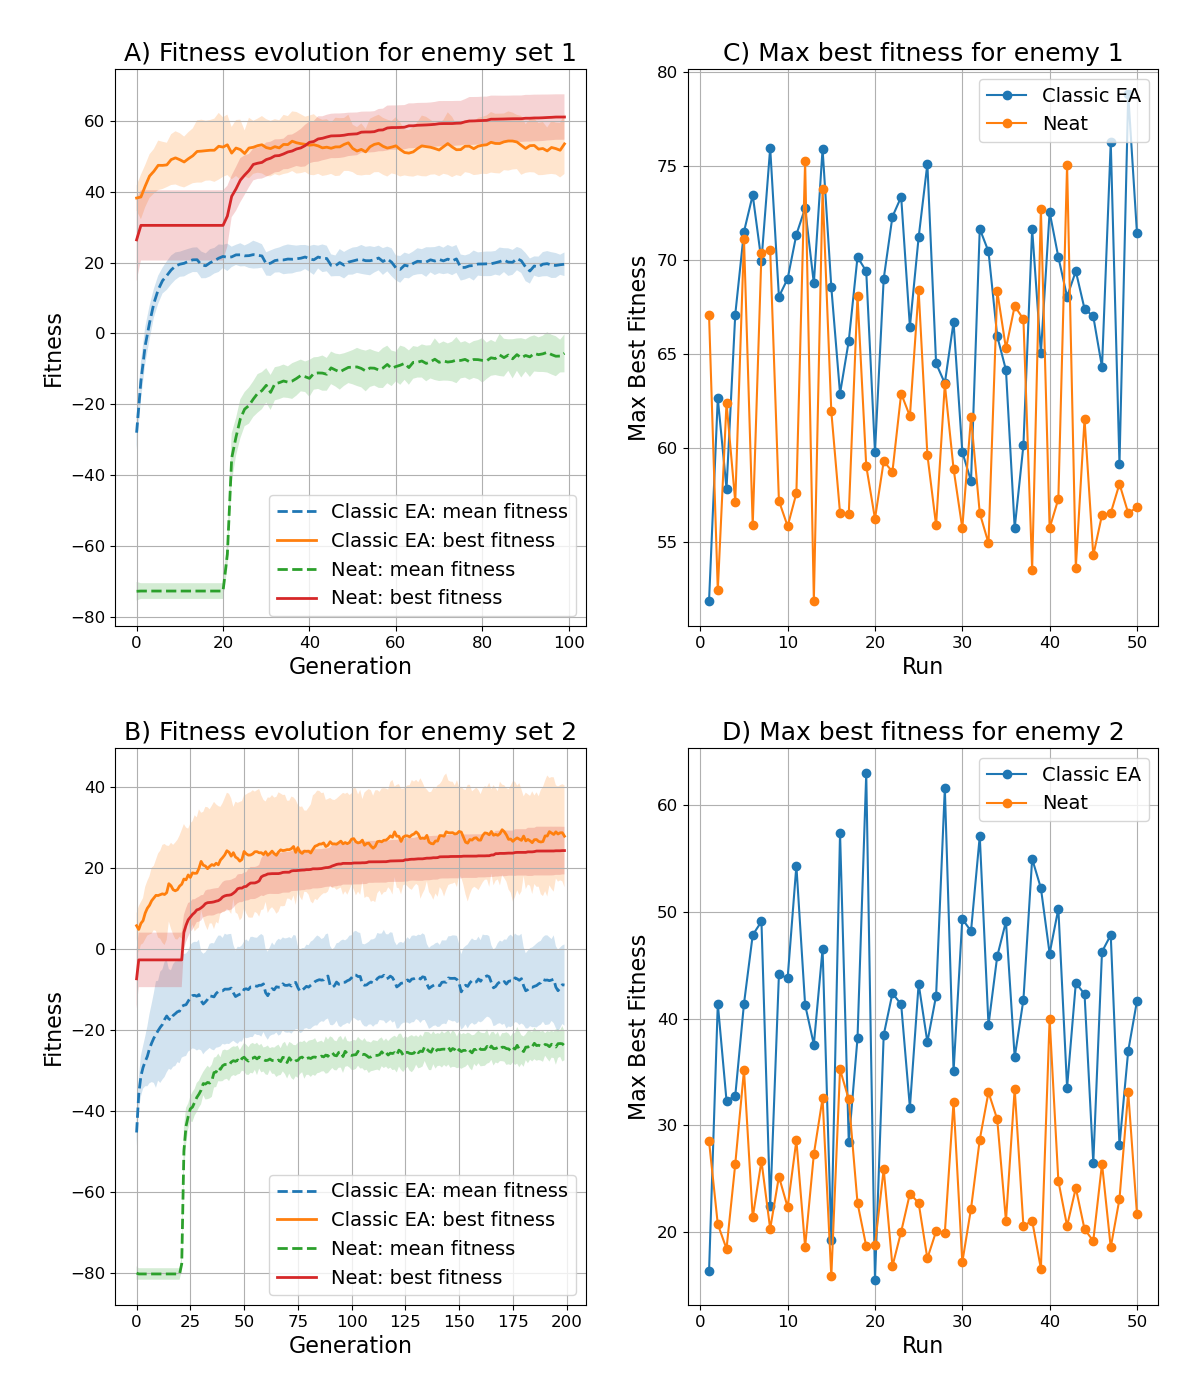
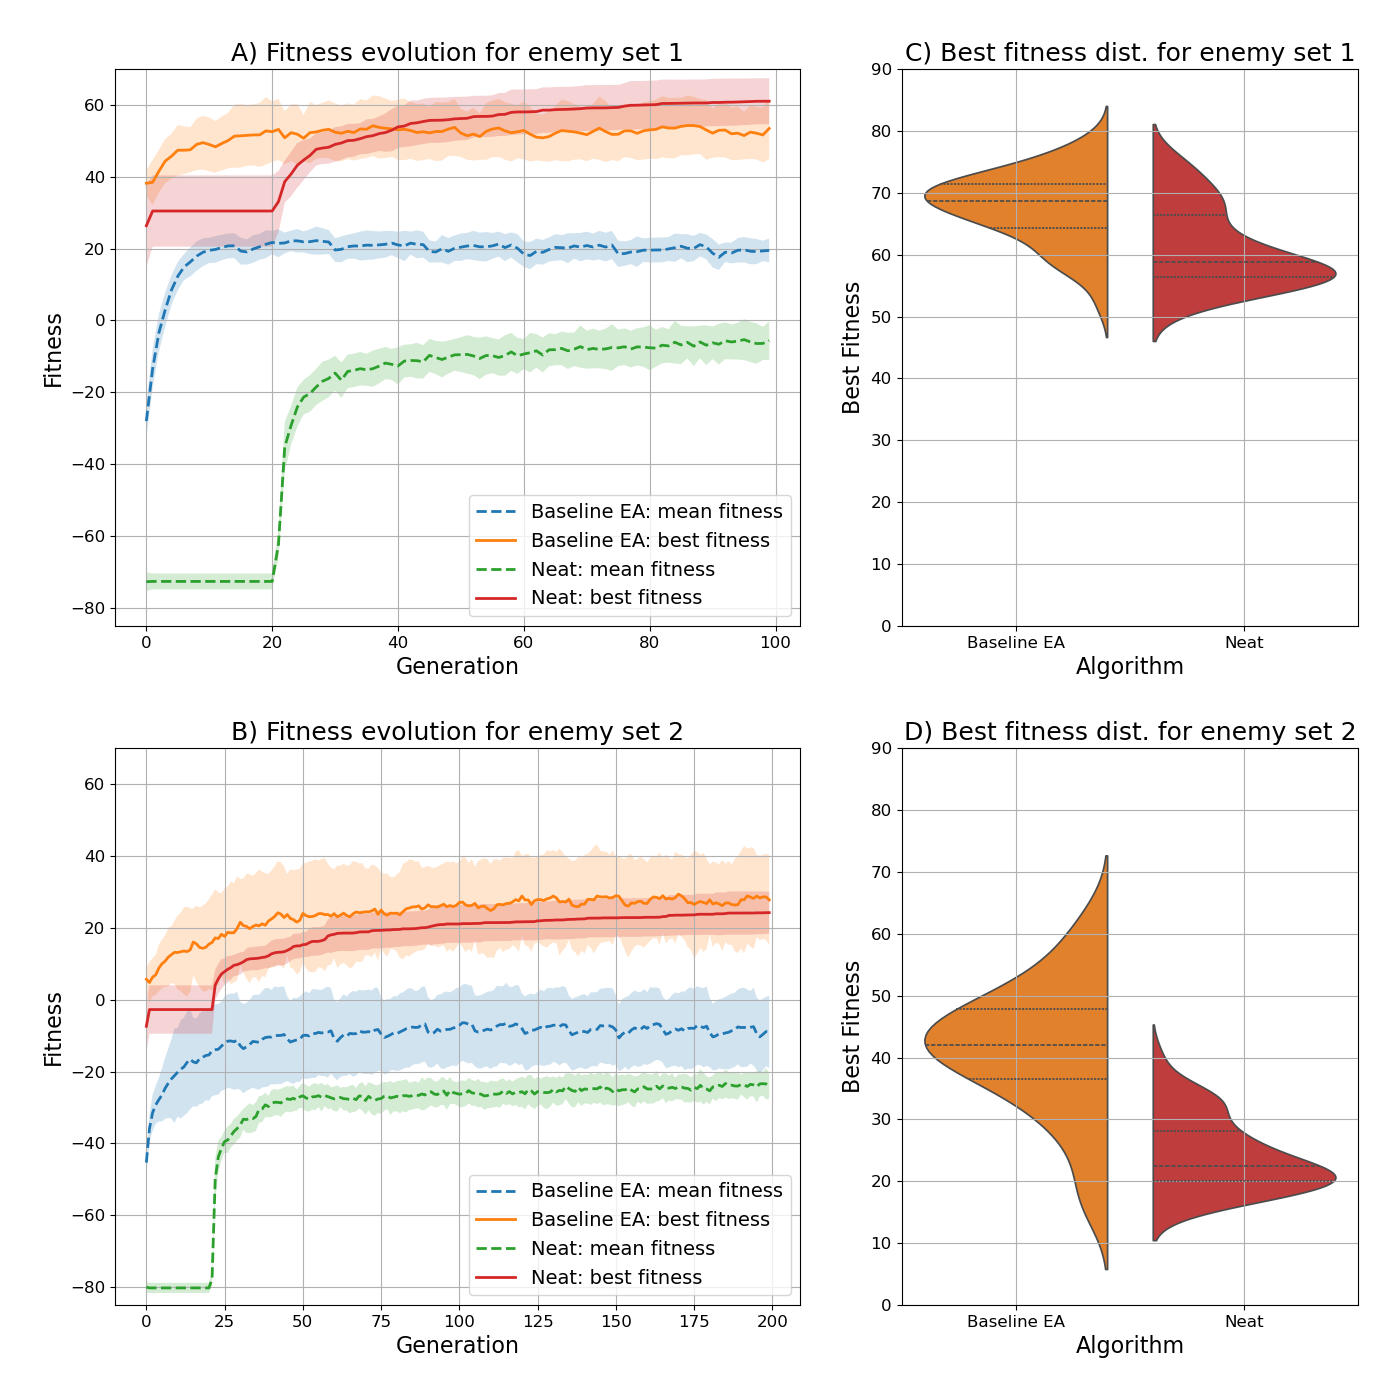
Plot functions are optimal now

diff --git a/analyse_fitness.py b/analyse_fitness.py
@@ -6,9 +6,10 @@
 import os
 import pandas as pd
 import matplotlib.pyplot as plt
-from scipy.stats import shapiro, levene, ttest_rel, wilcoxon
+from scipy.stats import shapiro, levene, ttest_rel, wilcoxon, f_oneway
 import numpy as np
 from statsmodels.stats.stattools import durbin_watson
+import seaborn as sns
 
 ##### ------------------------------------------ NOTE: --> works for Task 2 EA1 now, not for neat yet!
 #       in 'enemies_to_evaluate' the enemy sets can be selected
@@ -19,7 +20,7 @@ from statsmodels.stats.stattools import durbin_watson
 ##### ------------------------------------------ TODO: 
 #       make this process streamlined for the way (& location where) neat output is saved
 #       change line +/-52: pass_folder = os.path.join('EA1_files', base_folder) --> only for EA1, not robust
-#       find replacement for 'if algorithm == 'Classic EA':' and 'elif algorithm == 'IM-EA':'
+#       find replacement for 'if algorithm == 'Baseline EA':' and 'elif algorithm == 'IM-EA':'
 #       maybe include a parser like in the other scripts we built
 
 
@@ -28,7 +29,7 @@ enemies_to_evaluate = ['2578','123578']
 
 #base directories for both algorithms
 algorithm_dirs = {
-    'Classic EA': 'EA1_final_runs',
+    'Baseline EA': 'EA1_final_runs',
     'Neat': 'NEAT_final_runs'
 }
 
@@ -36,6 +37,8 @@ algorithm_dirs = {
 max_gen = 100 # To limit the number of generations shown in the plot
 plot_titles = ['A', 'B', 'C', 'D'] # Just for plotting aestetics  
 
+
+# ------------------------------ Data processing function(s) ------------------------------ 
 
 def process_across_enemies(enemy_sets, algorithm_dirs, max_gen=None):
     """
@@ -54,7 +57,7 @@ def process_across_enemies(enemy_sets, algorithm_dirs, max_gen=None):
         #process results for both algorithms
         for algorithm_name, base_folder in algorithm_dirs.items():
             # Set the appropriate pass_folder based on the algorithm
-            if algorithm_name == 'Classic EA':
+            if algorithm_name == 'Baseline EA':
                 pass_folder = os.path.join('EA1_files', base_folder)
             elif algorithm_name == 'Neat':
                 pass_folder = os.path.join('EA2_files', base_folder)
@@ -67,7 +70,6 @@ def process_across_enemies(enemy_sets, algorithm_dirs, max_gen=None):
         max_best_values_dict[str(enemy_group)] = enemy_max_best_values
 
     return algorithm_dfs_dict, max_best_values_dict
-
 
 def process_results_for_enemy_group(base_folder, enemy_group, algorithm, max_gen=None):
     """
@@ -91,7 +93,7 @@ def process_results_for_enemy_group(base_folder, enemy_group, algorithm, max_gen
             
             if os.path.exists(result_file):
                 #read results file
-                if algorithm == 'Classic EA':
+                if algorithm == 'Baseline EA':
                     #for Algorithm 1
                     df = pd.read_csv(result_file, delim_whitespace=True)
                     #drop the first duplicate generation 0 row (if it exists)
@@ -126,19 +128,27 @@ def process_results_for_enemy_group(base_folder, enemy_group, algorithm, max_gen
         return pd.concat(all_dfs), max_best_values  # Return the concatenated dataframe
 
 
+# ------------------------------ Plot function ------------------------------ 
+
 def make_subplots_across_enemies(algorithm_dfs_dict, max_best_values_dict, enemy_sets, plot_titles):
     """
     Create subplots with the results for all enemy_set, with separate plots for fitness and diversity.
     """
     n_enemy_sets = len(enemy_sets)  # Number of enemy_set provided
-    fig, axes = plt.subplots(nrows=n_enemy_sets, ncols=2, figsize=(12, 14))  # Create an n x 2 grid
+    fig, axes = plt.subplots(nrows=n_enemy_sets, ncols=2, figsize=(14, 14), 
+                             gridspec_kw={'width_ratios': [3, 2]})  # Create an n x 2 grid
 
     if n_enemy_sets == 1:
         axes = [axes]  #handle case where there's only one enemy to plot
 
+    colors = {
+    'Baseline EA': "#ff7f0e",
+    'Neat': "#d62728"
+    }
+
     #iterate over each enemy and corresponding axes
     for i, (enemy_group, ax_pair) in enumerate(zip(enemy_sets, axes)):
-        ax_fitness, ax_max_best = ax_pair 
+        ax_fitness, ax_violin = ax_pair 
 
         algorithm_dfs = algorithm_dfs_dict[str(enemy_group)]
 
@@ -164,7 +174,7 @@ def make_subplots_across_enemies(algorithm_dfs_dict, max_best_values_dict, enemy
 
                 #plot best fitness with standard deviation shading on fitness axis
                 ax_fitness.plot(generations, grouped_stats['mean_max_fitness'], label=f"{algorithm_name}: best fitness", 
-                                linestyle='-', linewidth=2)
+                                linestyle='-', linewidth=2)#, color=colors[algorithm_name])
                 ax_fitness.fill_between(generations,
                                         grouped_stats['mean_max_fitness'] - grouped_stats['std_max_fitness'],
                                         grouped_stats['mean_max_fitness'] + grouped_stats['std_max_fitness'],
@@ -174,6 +184,7 @@ def make_subplots_across_enemies(algorithm_dfs_dict, max_best_values_dict, enemy
         ax_fitness.set_title(f'{plot_titles[i]}) Fitness evolution for enemy set {i+1}', fontsize=18)
         ax_fitness.set_xlabel('Generation', fontsize=16)
         ax_fitness.set_ylabel('Fitness', fontsize=16)
+        ax_fitness.set_ylim(-85, 70)  # CHANGED: Set y-axis range for line plots
         ax_fitness.grid(True)
 
         ax_fitness.tick_params(axis='both', which='major', labelsize=12)  # Change '10' to your desired font size
@@ -183,31 +194,38 @@ def make_subplots_across_enemies(algorithm_dfs_dict, max_best_values_dict, enemy
         fitness_lines, fitness_labels = ax_fitness.get_legend_handles_labels()
         ax_fitness.legend(fitness_lines, fitness_labels, loc='lower right', fontsize=14)
 
+        # Prepare data for the violin plot
         max_best_values = max_best_values_dict[str(enemy_group)]
-
+        plot_data = []
         for algorithm_name, run_values in max_best_values.items():
-            runs = list(run_values.keys())
-            max_best_values_list = list(run_values.values())
-            sorted_max_best_values_list = np.sort(max_best_values_list)
+            for run, max_best_value in run_values.items():
+                plot_data.append({
+                    'Algorithm': algorithm_name,
+                    'Max_Best_Value': max_best_value
+                })
 
-            ax_max_best.plot(list(range(1, len(runs) + 1)), max_best_values_list, marker = 'o', 
-                             label=f"{algorithm_name}")
-            #ax_max_best.scatter(runs, max_best_values_list, label=f"{algorithm_name}: max best values")
+        plot_df = pd.DataFrame(plot_data)
 
-        # Customize the max best values plot
-        ax_max_best.set_title(f'{plot_titles[i + 2]}) Max best fitness for enemy {i+1}', fontsize=18)
-        ax_max_best.set_xlabel('Run', fontsize=16)
-        ax_max_best.set_ylabel('Max Best Fitness', fontsize=16)
-        ax_max_best.grid(True)
+        # Plot violin distribution of max_best_values on the right axis
+        sns.violinplot(ax=ax_violin, x='Algorithm', y='Max_Best_Value', data=plot_df, split=True, 
+                       inner='quartile', palette=["#ff7f0e", "#d62728"])  # CHANGED: Replaced line plot with violin plot
 
-        ax_max_best.legend(loc='upper right', fontsize=14)
-        ax_max_best.tick_params(axis='both', which='major', labelsize=12)
+        # Customize the violin plot
+        ax_violin.set_title(f'{plot_titles[i + 2]}) Best fitness dist. for enemy set {i+1}', fontsize=18)  # CHANGED: Adjusted title for violin plot
+        ax_violin.set_xlabel('Algorithm', fontsize=16)
+        ax_violin.set_ylabel('Best Fitness', fontsize=16)
+        ax_violin.set_ylim(0, 90)  # CHANGED: Set y-axis range for violin plots
+        ax_violin.grid(True)
+
+        ax_violin.tick_params(axis='both', which='major', labelsize=12)
 
     #adjust layout to prevent overlap between subplots
     plt.tight_layout(pad=3.0)
     plt.savefig('line_plots.png')  # Uncomment to save the figure
     plt.show()
 
+
+# ------------------------------ Stats test function(s) PART 1 ------------------------------ 
 
 def test_normality(data):
     """
@@ -251,9 +269,41 @@ def test_equal_variance(data1, data2):
     """
     stat, p_value = levene(data1, data2)
     print(f"Levene's Test Statistic: {stat}, P-value: {p_value}")
+
     return p_value
 
-def compare_datasets(data1, data2):
+def levene_test(data1, data2):
+    """
+    Test if two datasets have equal variances using Levene's test.
+    
+    Parameters:
+    The two datasets to test.
+    
+    Returns:
+    The p-value of Levene's test.
+    """
+    stat, p_value = levene(data1, data2)
+    print(f"Levene's Test Statistic: {stat}, P-value: {p_value}")
+    return p_value
+
+def f_test(data1, data2):
+    """
+    Test if two datasets have equal variances using F-test.
+    
+    Parameters:
+    The two datasets to test.
+    
+    Returns:
+    The p-value of F-test test.
+    """
+    f_stat, p_value = f_oneway(data1, data2)
+    print(f"F-test Statistic: {f_stat}, P-value: {p_value}")
+    return p_value
+
+
+# ------------------------------ Stats test function(s) PART 2 ------------------------------ 
+
+def compare_datasets_line_plot(data1, data2):
     """
     Compare two datasets using t-test or Wilcoxon Signed-Rank Test based on normality, autocorrelation, and equal variance.
     
@@ -291,8 +341,36 @@ def compare_datasets(data1, data2):
         stat, p_value = wilcoxon(data1, data2)
         print(f"Wilcoxon Signed-Rank Test used. Test statistic: {stat}, P-value: {p_value}")
         return "Wilcoxon Signed-Rank Test", p_value
+    
+def compare_datasets_max_best(data1, data2):
+    """
+    Compare the variance two datasets using F-test or Levene test based on normality.
+    
+    Parameters:
+    The two datasets to compare
+    
+    Returns:
+    The test used and the p-value.
+    """
+    # Test for normality
+    p_value_normal1 = test_normality(data1)
+    p_value_normal2 = test_normality(data2)
+    
+    # Decide on the test to use
+    if p_value_normal1 > 0.05 and p_value_normal2 > 0.05:
+        # Normal: F-test
+        p_value = f_test(data1, data2)
+        print(f"F-test used for max best. P-value: {p_value}")
+        return "F-test", p_value
+    else:
+        # Non-normal: Levene test
+        p_value = levene_test(data1, data2)
+        print(f"Levene Test used for max best. P-value: {p_value}")
+        return "Levene Test", p_value
 
-def perform_stats_test(algorithm_dfs_dict, enemies):
+# ------------------------------ Stats test function(s) PART 3 ------------------------------ 
+
+def perform_stats_test(algorithm_dfs_dict, max_best_values_dict, enemies):
     """
     Perform statistical tests on the mean best fitness and mean diversity for each enemy.
     """
@@ -300,31 +378,27 @@ def perform_stats_test(algorithm_dfs_dict, enemies):
         print(f"\nProcessing statistical tests for enemy {enemy}...")
 
         algorithm_dfs = algorithm_dfs_dict[str(enemy)]
+        max_best_values = max_best_values_dict[str(enemy)]
 
         #TODO: INCLUDE max_best_values_dict and do stats test on this!
 
         #initialize placeholders for the mean max fitness and mean diversity of both algorithms
         grouped_stats_mean_max_fitness_algo1 = None
         grouped_stats_mean_max_fitness_algo2 = None
-        #grouped_stats_mean_diversity_algo1 = None
-        #grouped_stats_mean_diversity_algo2 = None
 
         #iterate through algorithms and save the stats for both algorithms
         for algorithm_name, df in algorithm_dfs.items():
             if df is not None:
                 #group by generation and calculate mean max fitness and mean diversity
                 grouped_stats = df.groupby('gen').agg(
-                    mean_max_fitness=('best', 'mean')#,
-                    #mean_diversity=('diversity', 'mean')
+                    mean_max_fitness=('best', 'mean')
                 )
 
                 #store stats for the correct algorithm
-                if algorithm_name == "Classic EA":
+                if algorithm_name == "Baseline EA":
                     grouped_stats_mean_max_fitness_algo1 = grouped_stats['mean_max_fitness'].values
-                    #grouped_stats_mean_diversity_algo1 = grouped_stats['mean_diversity'].values
                 elif algorithm_name == "Neat":
                     grouped_stats_mean_max_fitness_algo2 = grouped_stats['mean_max_fitness'].values
-                    #grouped_stats_mean_diversity_algo2 = grouped_stats['mean_diversity'].values
 
         sum_difference_best = sum(grouped_stats_mean_max_fitness_algo1-grouped_stats_mean_max_fitness_algo2)
         print(f'\nSum of the difference between the mean best fitnesses of EA1 and EA2: ' 
@@ -332,12 +406,24 @@ def perform_stats_test(algorithm_dfs_dict, enemies):
 
         #ensure both algorithms' stats are available before running the comparison
         if grouped_stats_mean_max_fitness_algo1 is not None and grouped_stats_mean_max_fitness_algo2 is not None:
-            print(f'\nThe statistics for the mean best fitness for enemy {enemy} are:')
-            p_fitness = compare_datasets(grouped_stats_mean_max_fitness_algo1, grouped_stats_mean_max_fitness_algo2)
+            print(f'\nThe statistics for the mean best fitness for enemy set {enemy} are:')
+            p_fitness = compare_datasets_line_plot(grouped_stats_mean_max_fitness_algo1, grouped_stats_mean_max_fitness_algo2)
 
-        #if grouped_stats_mean_diversity_algo1 is not None and grouped_stats_mean_diversity_algo2 is not None:
-        #    print(f'\nThe statistics for the mean diversity for enemy {enemy} are:')
-        #    p_diversity = compare_datasets(grouped_stats_mean_diversity_algo1, grouped_stats_mean_diversity_algo2)
+                # Initialize placeholders for the max best values of both algorithms
+        max_best_values_algo1 = []
+        max_best_values_algo2 = []
+
+        # Collect max best values from max_best_values_dict
+        for algorithm_name, run_values in max_best_values.items():
+            if algorithm_name == "Baseline EA":
+                max_best_values_algo1 = list(run_values.values())
+            elif algorithm_name == "Neat":
+                max_best_values_algo2 = list(run_values.values())
+
+        # Perform the comparison for max best values (violin plots)
+        if max_best_values_algo1 and max_best_values_algo2:
+            print(f'\nThe statistics for the max best values for enemy set {enemy} are:')
+            compare_datasets_max_best(max_best_values_algo1, max_best_values_algo2)
             
 
 # Main steps
@@ -349,4 +435,4 @@ if __name__ == "__main__":
     make_subplots_across_enemies(algorithm_dfs_dict, max_best_values_dict, enemies_to_evaluate, plot_titles)
 
     #step 3: perform statistical tests
-    perform_stats_test(algorithm_dfs_dict, enemies_to_evaluate) #TODO: also pass on and start working with max_best_values_dict here
+    perform_stats_test(algorithm_dfs_dict, max_best_values_dict, enemies_to_evaluate) 

diff --git a/analyse_gain.py b/analyse_gain.py
@@ -99,15 +99,28 @@ def gather_data(base_folder, algorithms, enemy_sets):
 def generate_boxplots(df, legend_labels=None):  #CHANGED: Removed p_values and enemies parameters, adjusted to new format
     plt.figure(figsize=(10, 6))  #UNCHANGED
 
-    # Create a new column to combine Algorithm and EnemySet for the x-axis
-    df['Algorithm_EnemySet'] = df['Algorithm'] + ' (Enemy set ' + df['EnemySet'] + ')'  #CHANGED: New column for grouping by Algorithm and EnemySet
+    # Map the enemy set values to shorter labels
+    enemy_set_mapping = {
+        '2578': '1',
+        '123578': '2'
+    }
 
-    # customize colors
-    palette = {"EA1 (Enemy set 2578)": "royalblue", 
-               "EA2 (Enemy set 2578)": "royalblue", 
-               "EA1 (Enemy set 123578)": "lightblue",
-               "EA2 (Enemy set 123578)": "lightblue",}  #UNCHANGED
+    # Apply the mapping to df['EnemySet'] to convert to set numbers
+    df['EnemySet'] = df['EnemySet'].replace(enemy_set_mapping)
 
+    # Map the algorithm names to more readable labels, and combine with enemy set info for the x-axis
+    df['Algorithm_EnemySet'] = df['Algorithm'].replace({
+        'EA1': 'Baseline EA',
+        'EA2': 'Neat'
+    }) + ' (set ' + df['EnemySet'] + ')'
+
+    # Customize colors
+    palette = {
+        "Baseline EA (set 1)": "lightgreen",
+        "Neat (set 1)": "lightgreen",
+        "Baseline EA (set 2)": "lightblue",
+        "Neat (set 2)": "lightblue"
+    }
     # create the box plot with customized palette
     ax = sns.boxplot(x='Algorithm_EnemySet', y='Gain', data=df, palette=palette, width=0.6)  #CHANGED: Updated x-axis to be Algorithm_EnemySet
 
@@ -115,15 +128,24 @@ def generate_boxplots(df, legend_labels=None):  #CHANGED: Removed p_values and e
     sns.despine(ax=ax, top=True, right=True)  #UNCHANGED
 
     # set the labels
-    ax.set_xlabel('Evolutionary Algorithms', fontsize=16)  #CHANGED: Updated x-axis label
-    ax.set_ylabel('Individual Gain', fontsize=16)  #UNCHANGED
+    ax.set_xlabel('Evolutionary Algorithms', fontsize=16, labelpad=20)  #CHANGED: Updated x-axis label
+    ax.set_ylabel('Gain', fontsize=16)  #UNCHANGED
 
     # Set custom legend labels if provided
     if legend_labels is not None:  #UNCHANGED
         handles, _ = ax.get_legend_handles_labels()  #UNCHANGED
-        ax.legend(handles, legend_labels, loc='lower right', fontsize=12)  #UNCHANGED
+        ax.legend(handles, legend_labels, loc='lower right', fontsize=14)  #UNCHANGED
     else:  #UNCHANGED
-        ax.legend(loc='lower right', fontsize=12)  #UNCHANGED
+        ax.legend(loc='lower right', fontsize=14)  #UNCHANGED
+
+        # Add a custom legend for the enemy sets
+    custom_legend = [
+        plt.Line2D([0], [0], color="lightgreen", lw=4, label='Enemy set 1'),
+        plt.Line2D([0], [0], color="lightblue", lw=4, label='Enemy set 2')
+    ]
+    plt.legend(handles=custom_legend, loc='upper right', fontsize=12)
+    plt.tick_params(axis='both', which='major', labelsize=14)
+
 
     plt.tight_layout()  #UNCHANGED
     plt.savefig('box_plot.png')  # Uncomment to save the figure  #UNCHANGED
@@ -140,7 +162,7 @@ def perform_statistical_tests(df, enemy_sets, algorithms):
         #perform t-test (or you can use Mann-Whitney U test if needed)
         t_stat, p_value = stats.ttest_ind(algo1_gains, algo2_gains)
         
-        print(f"Enemy Set {enemy_set} - T-test between {algorithms[0]} and {algorithms[1]}: t-stat={t_stat:.4f}, p-value={p_value:.4f}")
+        print(f"Enemy Set {enemy_set} - T-test between {algorithms[0]} and {algorithms[1]}: t-stat={t_stat:.4f}, p-value={p_value:.16f}")
         p_values.append(p_value)
 
     return p_values
